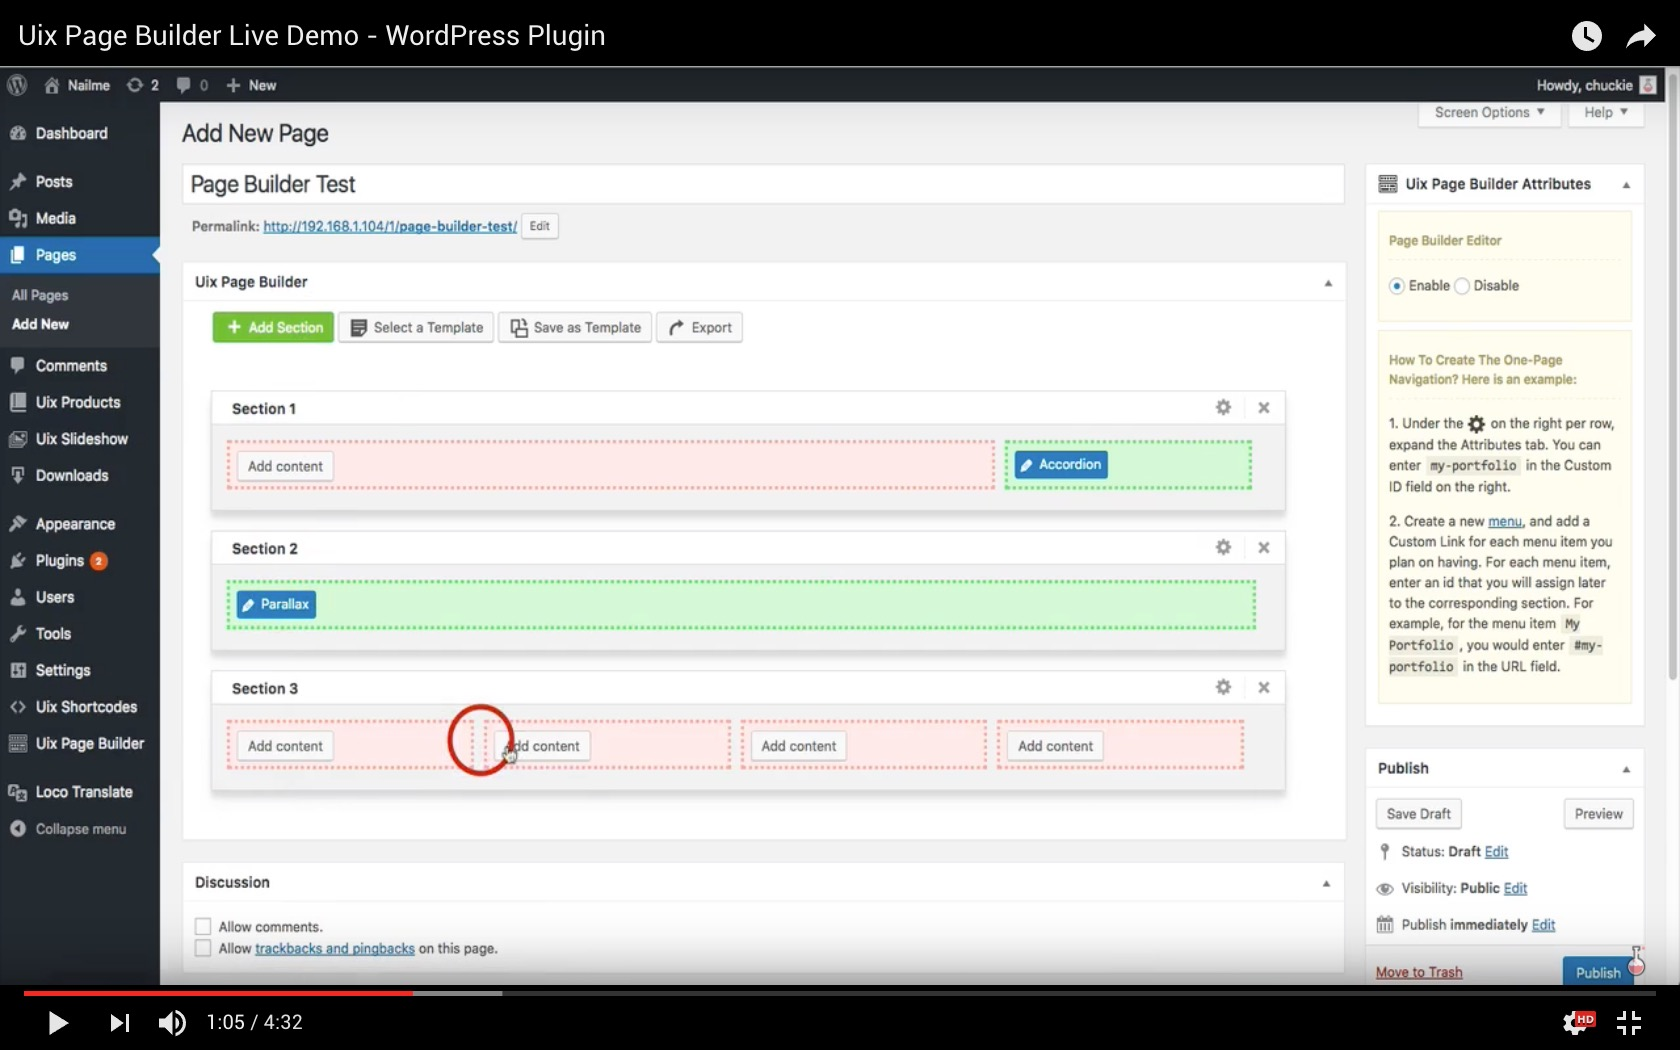
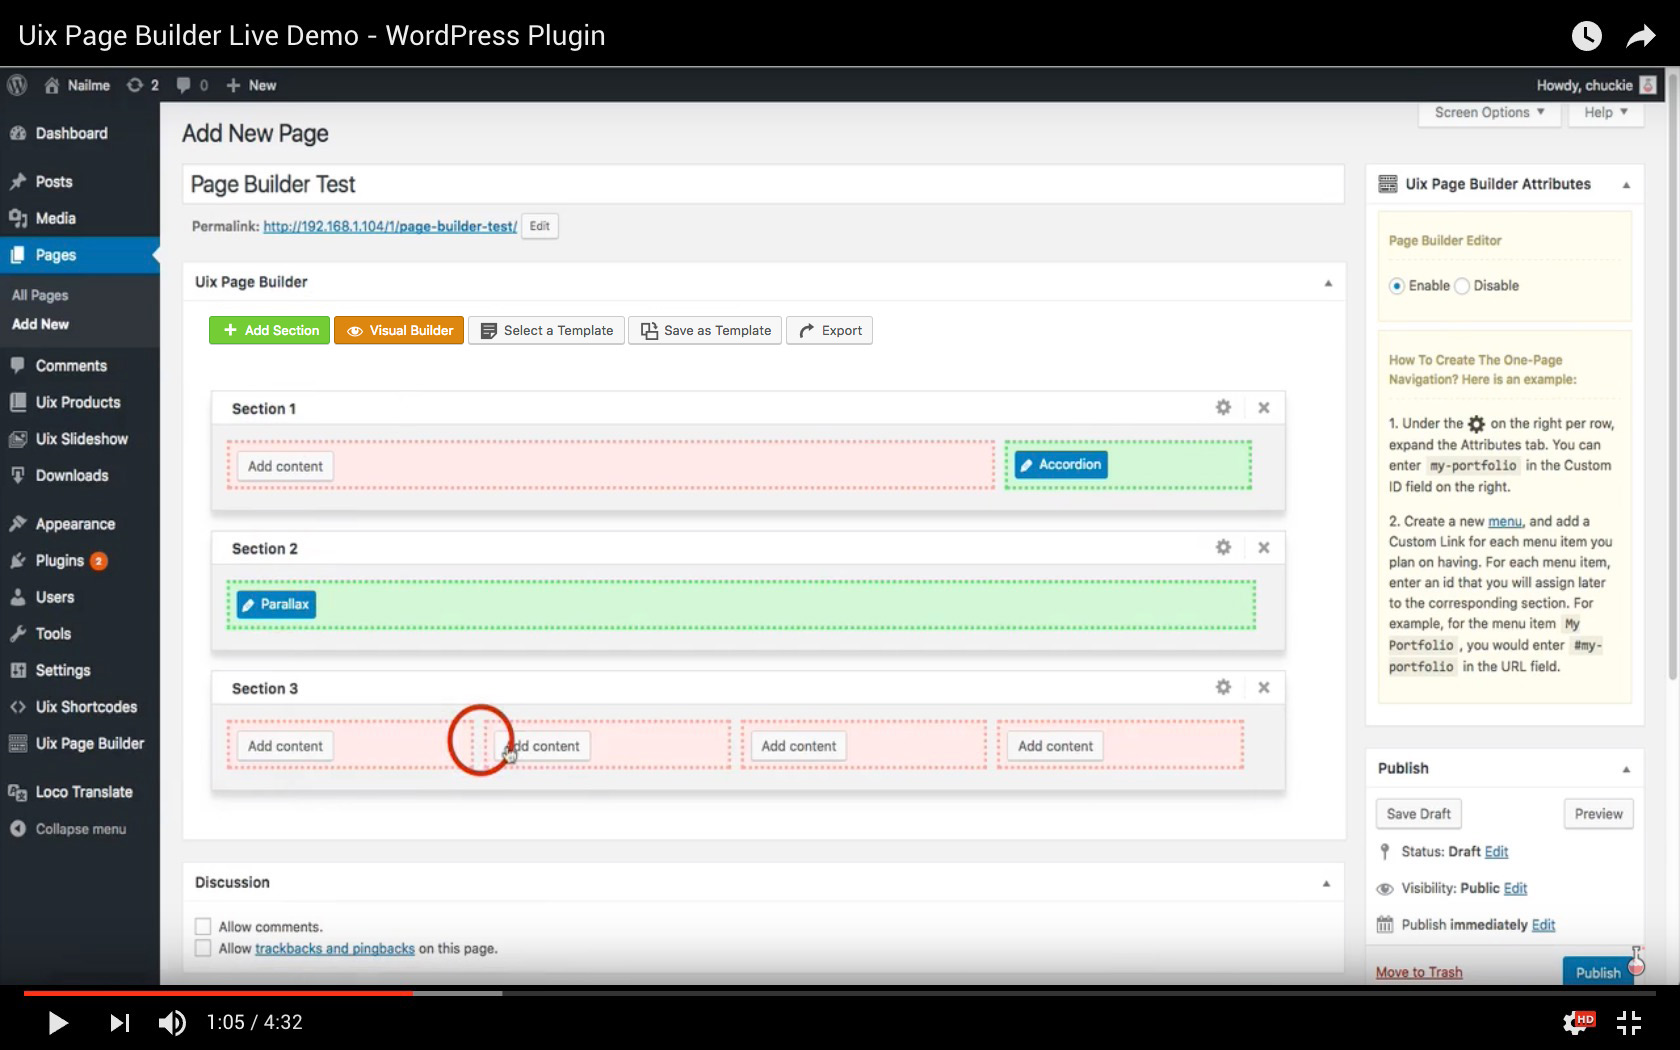
Update

diff --git a/admin/css/style.css b/admin/css/style.css
@@ -1,4 +1,4 @@
-/* Visual Editor Page 
+/* Visual Builder Page 
 -------------------------------------------------------------- */
 #uix-page-builder-themepreview {
 	position: fixed;
@@ -94,7 +94,7 @@
 }
 
 
-#uix-page-builder-visualeditor-loader {
+#uix-page-builder-visualBuilder-loader {
     position: fixed;
     top: 0;
     left: 0;
@@ -105,7 +105,7 @@
 	text-align: center;
 }
 
-#uix-page-builder-visualeditor-loader .loader {
+#uix-page-builder-visualBuilder-loader .loader {
     position: fixed;
     width: 50px;
     height: 50px;
@@ -122,37 +122,37 @@
 	
 }
 
-#uix-page-builder-visualeditor-loader .loader.ball {
+#uix-page-builder-visualBuilder-loader .loader.ball {
     box-shadow: inset 5px 5px 0 10px #333;
 }
 
-#uix-page-builder-visualeditor-loader .loader.spin {
+#uix-page-builder-visualBuilder-loader .loader.spin {
     border-width: 1px 1px 2px;
     border-color: #333;
     box-shadow: 0 1px #333;
 }
 
-#uix-page-builder-visualeditor-loader .loader.single {
+#uix-page-builder-visualBuilder-loader .loader.single {
     border-width: 1px;
     border-color: #333 transparent transparent;
 }
 
-#uix-page-builder-visualeditor-loader .loader.double {
+#uix-page-builder-visualBuilder-loader .loader.double {
     border-width: 1px;
     border-color: #333 transparent;
 }
 
-#uix-page-builder-visualeditor-loader .loader.triple {
+#uix-page-builder-visualBuilder-loader .loader.triple {
     border-width: 1px;
     border-color: #333;
     border-top-color: transparent;
 }
 
-#uix-page-builder-visualeditor-loader .loader.dots {
+#uix-page-builder-visualBuilder-loader .loader.dots {
     animation-timing-function: steps(8);
 }
 
-#uix-page-builder-visualeditor-loader .loader.dots:before, #uix-page-builder-visualeditor-loader .loader.dots:after {
+#uix-page-builder-visualBuilder-loader .loader.dots:before, #uix-page-builder-visualBuilder-loader .loader.dots:after {
     content: '';
     position: absolute;
     width: 10px;
@@ -162,14 +162,14 @@
     background: #333;
 }
 
-#uix-page-builder-visualeditor-loader .loader.dots:before {
+#uix-page-builder-visualBuilder-loader .loader.dots:before {
     top: 0;
     left: 0;
     right: 0;
     box-shadow: 20px 20px rgba(223, 32, 115, 0.8), 14px 6px rgba(223, 32, 115, 0.9), 14px 34px rgba(223, 32, 115, 0.7);
 }
 
-#uix-page-builder-visualeditor-loader .loader.dots:after {
+#uix-page-builder-visualBuilder-loader .loader.dots:after {
     left: 0;
     right: 0;
     bottom: 0;
@@ -323,7 +323,7 @@
 	transition: .2s linear;
 	width: 100%;
 }
-#uix-page-builder-gridster-wrapper.visualeditor {
+#uix-page-builder-gridster-wrapper.visualBuilder {
 	position: fixed;
 	width: 570px;
 	top: 0;
@@ -337,7 +337,7 @@
 	overflow-y: auto;
 }
 
-#uix-page-builder-gridster-wrapper.visualeditor .uix-page-builder-gridster-addbtn {
+#uix-page-builder-gridster-wrapper.visualBuilder .uix-page-builder-gridster-addbtn {
 	padding-top: 10px;
 }
 
@@ -529,7 +529,7 @@
 	border-color: #5EB83C !important;
 	color: #fff !important;
 }
-.uix-page-builder-gridster-addbtn a.visual-editor {
+.uix-page-builder-gridster-addbtn a.visual-builder {
 	background: rgba(214,135,30,1.00) !important;
 	border-color: rgba(175,109,6,1.00) !important;
 	color: #fff !important;
@@ -926,7 +926,7 @@
 }
 
 
-#uix-page-builder-gridster-wrapper.visualeditor .settings-temp-wrapper {
+#uix-page-builder-gridster-wrapper.visualBuilder .settings-temp-wrapper {
 	left: 14px;
 	top: 0;
 	position: fixed;

diff --git a/admin/js/core.js b/admin/js/core.js
@@ -5,10 +5,10 @@
 		
 	   /*!
 		 *
-		 * Visual Editor Page
+		 * Visual Builder Page
 		 * ---------------------------------------------------
 		 */
-		$( '#uix-page-builder-visualeditor-loader, #uix-page-builder-visualeditor-loader .loader' ).hide();
+		$( '#uix-page-builder-visualBuilder-loader, #uix-page-builder-visualBuilder-loader .loader' ).hide();
 		$( document ).on( 'click', '#uix-page-builder-themepreview-btn-close', function( e ) {
 			e.preventDefault();
 			
@@ -16,7 +16,7 @@
 			
 			
 			if ( oldPo == 0 ) {
-				$( '#uix-page-builder-gridster-wrapper.visualeditor' ).css( 'margin-left', '0' );
+				$( '#uix-page-builder-gridster-wrapper.visualBuilder' ).css( 'margin-left', '0' );
 				$( '#uix-page-builder-themepreview' ).css( {
 					'left': '570px',
 					'width': 'calc( 100vw - 570px )'
@@ -26,7 +26,7 @@
 				$( '.uix-page-builder-themepreview-btn#uix-page-builder-themepreview-btn-close' ).removeClass( 'reverse' )
 	
 			} else {
-				$( '#uix-page-builder-gridster-wrapper.visualeditor' ).css( 'margin-left', '-570px' );
+				$( '#uix-page-builder-gridster-wrapper.visualBuilder' ).css( 'margin-left', '-570px' );
 				$( '#uix-page-builder-themepreview' ).css( {
 					'left': '0',
 					'width': '100vw'
@@ -40,8 +40,17 @@
 
 		});
 		
-		$( document ).on( 'click', '.uix-page-builder-gridster-addbtn .visual-editor', function() {
-			window.onbeforeunload = null;
+		$( document ).on( 'mouseenter', '.uix-page-builder-gridster-addbtn .visual-builder', function() {
+			var curtitle = $( '[name="post_title"]' ).val().replace(/&/g, '{and}' ).replace(/ /g, '{space}' ),
+				oldhref  = $( this ).attr( 'href' );
+			if ( curtitle.length > 0 ) {
+				$( this ).attr( 'href', oldhref + '&post_title=' + encodeURI( curtitle ) )
+			}
+			
+		});
+		
+		$( document ).on( 'mousedown', '.uix-page-builder-gridster-addbtn .button', function() {
+			$( window ).unbind();
 		});
 		
 		

diff --git a/admin/post-extensions/visual-builder-init.php b/admin/post-extensions/visual-builder-init.php
@@ -16,7 +16,7 @@ if ( !function_exists( 'uix_page_builder_previewControlpanel' ) ) {
 		
         if ( is_admin() ) {
 			if ( isset( $_GET['uix_page_builder_visual_mode'] ) && $_GET['uix_page_builder_visual_mode'] == 1 ) {
-				add_action( 'admin_init', 'uix_page_builder_visualEditor_init' );
+				add_action( 'admin_init', 'uix_page_builder_visualBuilder_init' );
 				add_action( 'admin_menu', 'uix_page_builder_remove_redundant_menu' );
 				add_action( 'admin_head', 'uix_page_builder_remove_redundant_wapper' );
 				add_action( 'admin_head', 'uix_page_builder_page_ex_metaboxes_pagerbuilder_container_options' );
@@ -64,10 +64,10 @@ if ( !function_exists( 'uix_page_builder_previewFrontend' ) ) {
 
 
 
-//Initialize visual editor page 
-if ( !function_exists( 'uix_page_builder_visualEditor_init' ) ) {
+//Initialize visual builder page 
+if ( !function_exists( 'uix_page_builder_visualBuilder_init' ) ) {
 	
-    function uix_page_builder_visualEditor_init() {
+    function uix_page_builder_visualBuilder_init() {
 
 		$post_ID          = isset( $_GET['post_id'] ) ? $_GET['post_id'] : '';
 		$post_url         = esc_url( get_permalink( $post_ID ) );
@@ -75,8 +75,17 @@ if ( !function_exists( 'uix_page_builder_visualEditor_init' ) ) {
 		$current_screen   = get_current_screen();
 		$post_type        = get_post_type( $post_ID );
 		$user_ID          = isset( $current_user ) && isset( $current_user->ID ) ? (int) $current_user->ID : 0;
+		$post_title       = isset( $_GET['post_title'] ) ? $_GET['post_title'] : '';
+		$post_title       = str_replace( '{and}', '&', 
+							str_replace( '{space}', ' ', 
+							str_replace( '%7B', '{', 
+							str_replace( '%7D', '}', 
+							$post_title 
+						   ) ) ) );
+		
+		
 	
-		//Create visual editor page
+		//Create visual builder page
         if ( !current_user_can( 'edit_post', $post_ID ) ) {
             header( 'Location: ' . $post_url );
         }
@@ -87,7 +96,7 @@ if ( !function_exists( 'uix_page_builder_visualEditor_init' ) ) {
 				$post_data = array(
 					'ID'           => $post_ID,
 					'post_status'  => 'publish',
-					'post_title'   => esc_html__( '(no title)', 'uix-page-builder' ),
+					'post_title'   => empty( $post_title ) ? esc_html__( '(no title)', 'uix-page-builder' ) : $post_title,
 					'post_content' => '[uix_pb_sections]'
 				);
 				
@@ -122,7 +131,7 @@ if ( !function_exists( 'uix_page_builder_visualEditor_init' ) ) {
             
 			require_once ABSPATH . 'wp-admin/admin-header.php';
 			
-		    echo '<iframe id="uix-page-builder-themepreview" name="uix-page-builder-themepreview"  frameborder="0" border="0" width="100%" height="100%" src="'.$post_url.'?preview=1"></iframe><a class="uix-page-builder-themepreview-btn" title="'.esc_attr__( 'Exit Visual Mode', 'uix-page-builder' ).'" id="uix-page-builder-themepreview-btn-back" href="'.esc_url( uix_page_builder_get_normalEditor_pageURL( $post_ID ) ).'">&ldca;</a><a class="uix-page-builder-themepreview-btn" title="'.esc_attr__( 'Hide Sidebar', 'uix-page-builder' ).'" id="uix-page-builder-themepreview-btn-close" href="javascript:">&ltrif;</a>';
+		    echo '<iframe id="uix-page-builder-themepreview" name="uix-page-builder-themepreview"  frameborder="0" border="0" width="100%" height="100%" src="'.$post_url.'?preview=1"></iframe><a class="uix-page-builder-themepreview-btn" title="'.esc_attr__( 'Exit Visual Builder', 'uix-page-builder' ).'" id="uix-page-builder-themepreview-btn-back" href="'.esc_url( uix_page_builder_get_normalEditor_pageURL( $post_ID ) ).'">&ldca;</a><a class="uix-page-builder-themepreview-btn" title="'.esc_attr__( 'Hide Sidebar', 'uix-page-builder' ).'" id="uix-page-builder-themepreview-btn-close" href="javascript:">&ltrif;</a>';
 			
 			require_once ABSPATH . 'wp-admin/admin-footer.php';
 			
@@ -145,13 +154,13 @@ if ( !function_exists( 'uix_page_builder_allowInsertEmptyPost' ) ) {
 
 
 /*
- * Get URL of visual editor page
+ * Get URL of visual builder page
  *
  * 
  */
-if ( !function_exists( 'uix_page_builder_get_visualEditor_pageURL' ) ) {
+if ( !function_exists( 'uix_page_builder_get_visualBuilder_pageURL' ) ) {
 	
-    function uix_page_builder_get_visualEditor_pageURL( $id ) {
+    function uix_page_builder_get_visualBuilder_pageURL( $id ) {
         return admin_url( "post.php" ).'?post_id='.$id.'&post_type='.get_post_type( $id ).'&uix_page_builder_visual_mode=1';
     }
 
@@ -173,7 +182,7 @@ if ( !function_exists( 'uix_page_builder_get_normalEditor_pageURL' ) ) {
 
 
 /*
- * Remove redundant elements for admin panel of visual editor page
+ * Remove redundant elements for admin panel of visual builder page
  *
  * 
  */
@@ -205,7 +214,7 @@ if ( !function_exists( 'uix_page_builder_remove_redundant_wapper' ) ) {
 		    overflow: hidden;
 		}
 		</style>
-		<div id='uix-page-builder-visualeditor-loader'><div class='loader single'></div></div>
+		<div id='uix-page-builder-visualBuilder-loader'><div class='loader single'></div></div>
 		";
 	}
 }
@@ -216,9 +225,9 @@ if ( !function_exists( 'uix_page_builder_remove_redundant_wapper' ) ) {
  * Save live-render data with ajax 
  * 
  */
-if ( !function_exists( 'uix_page_builder_savevisualEditor' ) ) {
-	add_action( 'wp_ajax_uix_page_builder_savevisualEditor_settings', 'uix_page_builder_savevisualEditor' );		
-	function uix_page_builder_savevisualEditor() {
+if ( !function_exists( 'uix_page_builder_savevisualBuilder' ) ) {
+	add_action( 'wp_ajax_uix_page_builder_savevisualBuilder_settings', 'uix_page_builder_savevisualBuilder' );		
+	function uix_page_builder_savevisualBuilder() {
 		check_ajax_referer( 'uix_page_builder_metaboxes_save_nonce', 'security' );
 		
 		if ( isset( $_POST[ 'layoutdata' ] ) && isset( $_POST[ 'postID' ] ) ) {

diff --git a/admin/post-extensions/post-extensions-init.php b/admin/post-extensions/post-extensions-init.php
@@ -367,10 +367,10 @@ if ( !function_exists( 'uix_page_builder_page_ex_metaboxes_pagerbuilder_containe
 				<span class="li">
 					<a class="button add" href="javascript:gridsterAddRow();"><i class="dashicons dashicons-plus"></i><?php _e( 'Add Section', 'uix-page-builder' ); ?></a>
 				</span>
-				<!-- Visual Editor -->
+				<!-- Visual Builder -->
 				<?php if ( !isset( $_GET['uix_page_builder_visual_mode'] ) ) { ?>
 					 <span class="li">
-						<a class="button visual-editor" href="<?php echo esc_url( uix_page_builder_get_visualEditor_pageURL( $curid ) ); ?>"><i class="dashicons dashicons-visibility"></i><?php _e( 'Visual Editor Mode', 'uix-page-builder' ); ?></a>
+						<a class="button visual-builder" href="<?php echo esc_url( uix_page_builder_get_visualBuilder_pageURL( $curid ) ); ?>"><i class="dashicons dashicons-visibility"></i><?php _e( 'Visual Builder', 'uix-page-builder' ); ?></a>
 					</span>   
 				<?php } ?>    
 				<span class="li">
@@ -453,7 +453,7 @@ if ( !function_exists( 'uix_page_builder_page_ex_metaboxes_pagerbuilder_containe
 			if ( jQuery( '#titlediv .inside' ).length > 0 ) {	
 				gridsterWidth = ( jQuery( '#titlediv .inside' ).width() - 80 ) - 40;
 			} else {
-				jQuery( '#uix-page-builder-gridster-wrapper' ).addClass( 'visualeditor' );
+				jQuery( '#uix-page-builder-gridster-wrapper' ).addClass( 'visualBuilder' );
 				gridsterWidth = ( 620 - 80 ) - 40;
 			}
 			
@@ -776,10 +776,10 @@ if ( !function_exists( 'uix_page_builder_page_ex_metaboxes_pagerbuilder_containe
 				
 				if ( jQuery( '#titlediv .inside' ).length == 0 ) {	
 
-					jQuery( '#uix-page-builder-visualeditor-loader, #uix-page-builder-visualeditor-loader .loader' ).show();
+					jQuery( '#uix-page-builder-visualBuilder-loader, #uix-page-builder-visualBuilder-loader .loader' ).show();
 
 					jQuery.post( ajaxurl, {
-						action               : 'uix_page_builder_savevisualEditor_settings',
+						action               : 'uix_page_builder_savevisualBuilder_settings',
 						layoutdata           : jQuery( "[name='uix-page-builder-layoutdata']" ).val(),
 						postID               : uix_page_builder_layoutdata.send_string_postid,
 						security             : uix_page_builder_layoutdata.send_string_nonce
@@ -789,7 +789,7 @@ if ( !function_exists( 'uix_page_builder_page_ex_metaboxes_pagerbuilder_containe
 							jQuery( '#uix-page-builder-themepreview' ).attr( 'src', pURL );	
 
 							jQuery( '#uix-page-builder-themepreview' ).on( 'load', function() {
-								jQuery( '#uix-page-builder-visualeditor-loader, #uix-page-builder-visualeditor-loader .loader' ).hide();
+								jQuery( '#uix-page-builder-visualBuilder-loader, #uix-page-builder-visualBuilder-loader .loader' ).hide();
 							} );
 						}
 					});
@@ -868,7 +868,7 @@ if ( !function_exists( 'uix_page_builder_page_ex_metaboxes_pagerbuilder_containe
 				if ( jQuery( '#titlediv .inside' ).length > 0 ) {	
 					ow = ( jQuery( '#titlediv .inside' ).width() - 80 ) - 40;
 				} else {
-					jQuery( '#uix-page-builder-gridster-wrapper' ).addClass( 'visualeditor' );
+					jQuery( '#uix-page-builder-gridster-wrapper' ).addClass( 'visualBuilder' );
 					ow = ( 620 - 80 ) - 40;
 				}
 				

diff --git a/helper/tabs/about.php b/helper/tabs/about.php
@@ -26,7 +26,9 @@ if( !isset( $_GET[ 'tab' ] ) || $_GET[ 'tab' ] == 'about' ) {
             <?php _e( 'Features', 'uix-page-builder' ); ?>
         </h3>  
         <p>
- 			<?php _e( '* Support to save custom templates and export templates.', 'uix-page-builder' ); ?><br>          
+ 			<?php _e( '* You can switch between <strong>"Visual Builder"</strong> and <strong>"Default Editor"</strong> modes at any time.', 'uix-page-builder' ); ?><br>
+ 			<?php _e( '* Support to choose multiple default templates you want.', 'uix-page-builder' ); ?><br>       
+ 			<?php _e( '* Support to save custom templates and export templates.', 'uix-page-builder' ); ?><br> 
  			<?php _e( '* Support a key to add anchor links based Uix Page Builder to your navigation. Visit the Menus page (Appearance &laquo; Menus), choose items like <strong>"Uix Page Builder Anchor Links"</strong>, from the left column to add to the menu.  ', 'uix-page-builder' ); ?><br> 
             <?php _e( '* Simple operation window, support loop list items.', 'uix-page-builder' ); ?><br>
             <?php _e( '* Customizable core style sheets.', 'uix-page-builder' ); ?>

diff --git a/uix-page-builder.php b/uix-page-builder.php
@@ -81,7 +81,7 @@ class UixPageBuilder {
 	public static function includes() {
 		require_once UIX_PAGE_BUILDER_PLUGIN_DIR.'admin/general.php';
 		require_once UIX_PAGE_BUILDER_PLUGIN_DIR.'admin/post-extensions/post-extensions-init.php';
-		require_once UIX_PAGE_BUILDER_PLUGIN_DIR.'admin/post-extensions/visual-editor-init.php';
+		require_once UIX_PAGE_BUILDER_PLUGIN_DIR.'admin/post-extensions/visual-builder-init.php';
 		require_once UIX_PAGE_BUILDER_PLUGIN_DIR.'admin/classes/class-menu-onepage.php';
 		require_once UIX_PAGE_BUILDER_PLUGIN_DIR.'admin/classes/class-section-googlemap.php';
 		require_once UIX_PAGE_BUILDER_PLUGIN_DIR.'admin/classes/class-section-contactform.php';

diff --git a/README.md b/README.md
@@ -37,6 +37,8 @@ Embed a shortcode `[uix_pb_sections]` into the editor of **Pages Add New Screen*
   
 = Features =
 
+* You can switch between "Visual Builder" and "Default Editor" modes at any time.
+* Support to choose multiple default templates you want.
 * Support to save custom templates and export templates.
 * Support a key to add anchor links based Uix Page Builder to your navigation. Visit the Menus page (Appearance &laquo; Menus), choose items like "Uix Page Builder Anchor Links", from the left column to add to the menu.
 * Simple operation window, support loop list items.
@@ -58,7 +60,8 @@ Embed a shortcode `[uix_pb_sections]` into the editor of **Pages Add New Screen*
 
 ##### = 1.0.5 =
 
-* Added visual editing page (new).
+* Added visual builder mode (new).
+* You can switch between "Visual Builder" and "Default Editor" modes at any time.
 * Optimization of the admin panel structure.
 
 
